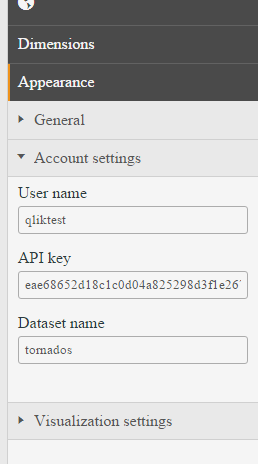
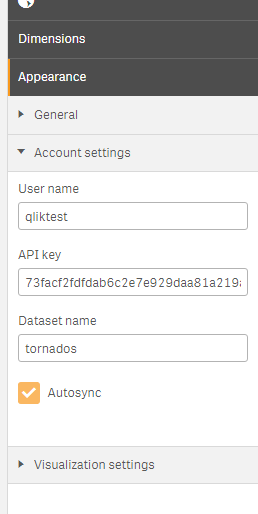
README updated for autosync

diff --git a/README.md b/README.md
@@ -25,7 +25,7 @@ You can have as many other dimensions as you like. Those dimensions will be avai
 
 ![](img/dimensions.png)
 
-Also, please make sure you fill in your CARTO credentials and desired dataset name.
+Also, please make sure you fill in your CARTO credentials and desired dataset name. If _Autosync_ is enabled, everytime data is refreshed in Qlik, it will be sent automatically to CARTO without the need to click on the _Open in CARTO_ button, and the visualization will be reloaded automaticaally too.
 
 ![](img/credentials.png)
 
@@ -77,4 +77,4 @@ In any case, the _User name_ and _Dataset name_ fields are not required unless y
 
 ### Caveats
 
-The embedded app will not automatically respond to any filtering done in Qlik, but you always have the option of using the _Open in CARTO_ button to send filtered data to CARTO and refresh the visualization. Still, refreshing the visualization will not always happen automatically. In most cases, you will have to zoom in/out or pan the map for the changes to be visible. In some cases, you may even have to reload the page in Qlik Sense, due to the caching policy it implements.
+In some cases, refreshing the visualization will not happen automatically. If that is the case, you will have to zoom in/out or pan the map for the changes to be visible or even reload the page in Qlik Sense, due to the caching policy it implements.
